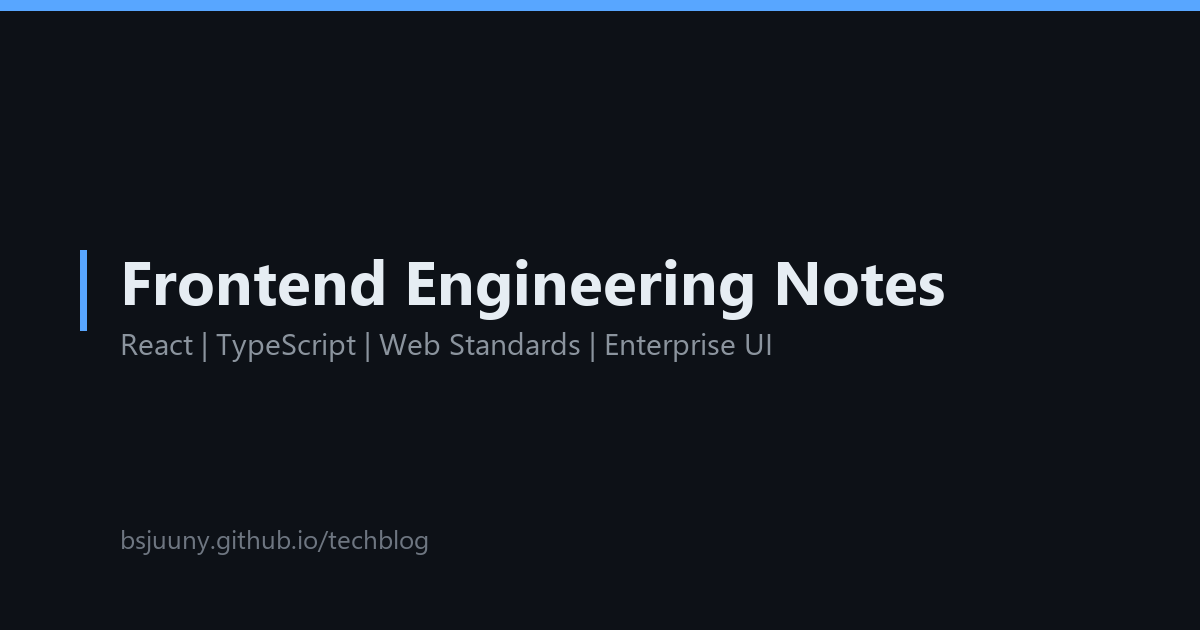
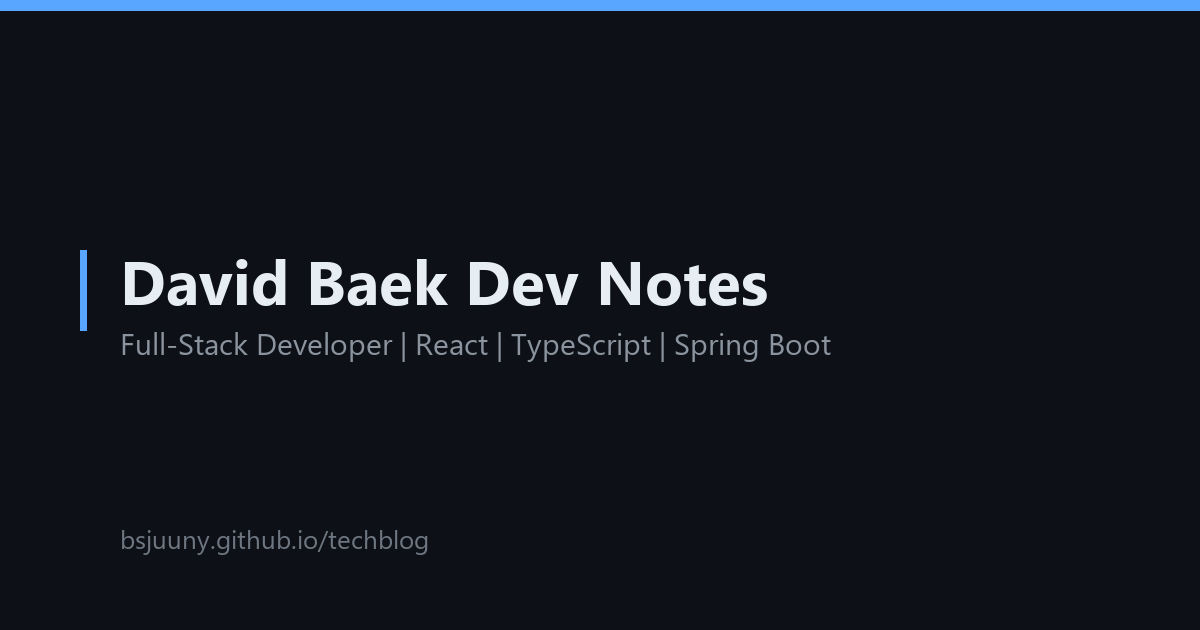
Rename blog to David Baek Dev Notes

Changed region(s): [[0.0925, 0.3921, 0.8017, 0.573]]

diff --git a/index.html b/index.html
@@ -1,14 +1,14 @@
 ---
 layout: portfolio
-title: "풀스택 개발자 백승준 기술 블로그 | Frontend Engineering Notes"
+title: "풀스택 개발자 백승준 기술 블로그 | David Baek Dev Notes"
 permalink: /
 author_profile: false
 excerpt: "풀스택 개발자 백승준(Baek Seungjun · David Baek)의 기술 블로그. React·TypeScript 중심의 프론트엔드와 웹 애플리케이션 개발·운영 과정에서 마주친 문제, 선택의 기준, 검증 경험을 기록합니다."
 ---
 
 <section class="portfolio-hero blog-hero" aria-labelledby="blog-title">
-  <p class="portfolio-eyebrow">FRONTEND TECH BLOG</p>
-  <h1 id="blog-title">Frontend Engineering Notes</h1>
+  <p class="portfolio-eyebrow">TECH BLOG</p>
+  <h1 id="blog-title">David Baek Dev Notes</h1>
   <p class="portfolio-lead">실무에서 마주친 문제와 해결 과정을 기록합니다.</p>
   <p class="portfolio-author">작성자 <a href="{{ '/about/' | relative_url }}">백승준 (Baek Seungjun · David Baek)</a> — 풀스택 개발자 · Senior Frontend Engineer &amp; Full-Stack Web Developer</p>
   <p class="portfolio-keywords">React · TypeScript · JavaScript · Web Standards · Enterprise UI</p>

diff --git a/scripts/make_og_image.py b/scripts/make_og_image.py
@@ -19,8 +19,8 @@ OUT_PATH = Path(__file__).resolve().parent.parent / "assets" / "images" / "og-de
 SIZE = (1200, 630)
 BG = "#0d1117"
 ACCENT = "#58a6ff"
-TITLE = "Frontend Engineering Notes"
-SUBTITLE = "React | TypeScript | Web Standards | Enterprise UI"
+TITLE = "David Baek Dev Notes"
+SUBTITLE = "Full-Stack Developer | React | TypeScript | Spring Boot"
 FOOTER = "bsjuuny.github.io/techblog"
 
 FONT_BOLD = "C:/Windows/Fonts/segoeuib.ttf"

diff --git a/scripts/verify_site.py b/scripts/verify_site.py
@@ -57,7 +57,7 @@ for path in FORBIDDEN_PUBLIC_PATHS:
 
 config = (ROOT / "_config.yml").read_text(encoding="utf-8")
 for required_setting in [
-    'title: "Frontend Engineering Notes"',
+    'title: "David Baek Dev Notes"',
     'baseurl: "/techblog"',
     'url: "https://bsjuuny.github.io"',
     "jekyll-sitemap",

diff --git a/_pages/about.md b/_pages/about.md
@@ -195,7 +195,7 @@ Details for each project are in [Selected Projects](#selected-projects) above an
 
 ### Technical Writing
 
-I write [Frontend Engineering Notes]({{ '/' | relative_url }}), a Korean-language blog on frontend architecture, UI engineering, and production troubleshooting. Some posts are generated automatically from public data and are labeled as such at the top of each post; those are not presented as personal work history.
+I write [David Baek Dev Notes]({{ '/' | relative_url }}), a Korean-language blog on frontend architecture, UI engineering, and production troubleshooting. Some posts are generated automatically from public data and are labeled as such at the top of each post; those are not presented as personal work history.
 
 ### GitHub Projects
 

diff --git a/README.md b/README.md
@@ -1,4 +1,4 @@
-# Frontend Engineering Notes
+# David Baek Dev Notes
 
 Frontend 개발 과정에서 마주친 문제, 기술 선택의 기준, 운영 경험을 정리하는 GitHub Pages 기술 블로그입니다. 경력과 프로젝트는 기술 글의 배경 정보로 분리해 제공합니다.
 
